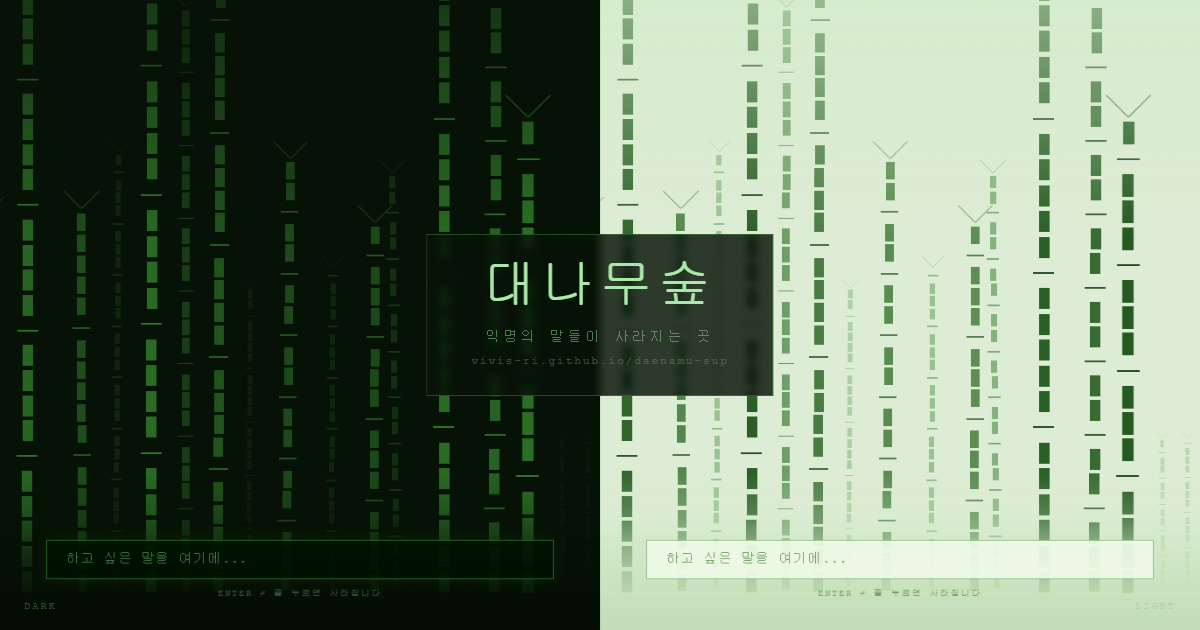
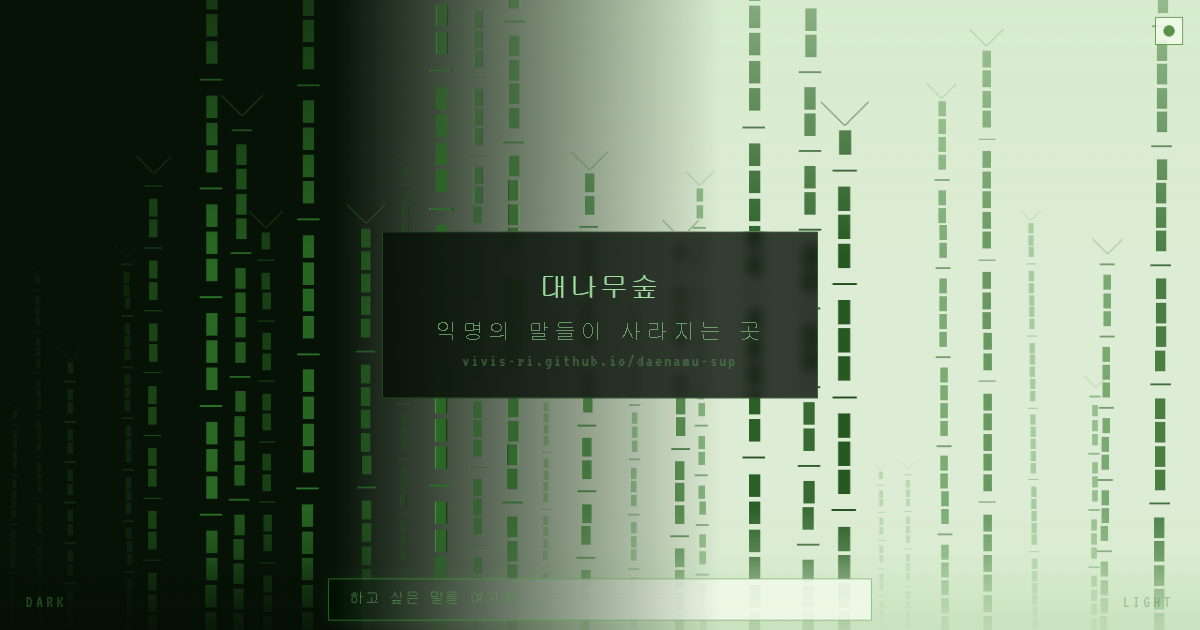
Add Web Audio wind BGM + regenerate preview with pixel font gradient
- Sound button (♩/♪) triggers procedural wind synthesis via Web Audio API:
  layered filtered noise, LFO swell, bamboo clack bursts
- Regenerated preview.png with Press Start 2P title and gradient blend
- Add make-preview.mjs for future preview regeneration

diff --git a/index.html b/index.html
@@ -173,6 +173,28 @@
 
     #theme-btn:hover { border-color: var(--inp-focus); }
 
+    /* ── 사운드 토글 버튼 ── */
+    #sound-btn {
+      position: fixed;
+      top: 18px;
+      right: 56px;
+      z-index: 20;
+      width: 30px;
+      height: 30px;
+      background: var(--inp-bg);
+      border: 1px solid var(--inp-border);
+      color: var(--btn-color);
+      font-size: 14px;
+      cursor: pointer;
+      border-radius: 1px;
+      font-family: monospace;
+      display: flex;
+      align-items: center;
+      justify-content: center;
+      transition: border-color 0.25s, background 0.4s;
+    }
+    #sound-btn:hover { border-color: var(--inp-focus); }
+
     @keyframes fly-up {
       0%   { transform: translate(0, 0) rotate(0deg) scale(1); opacity: 1; }
       12%  { opacity: 1; }
@@ -222,6 +244,7 @@
   <canvas id="forest-canvas"></canvas>
   <div id="mist"></div>
   <div id="particles"></div>
+  <button id="sound-btn" title="배경음 켜기/끄기">♩</button>
   <button id="theme-btn" title="라이트/다크 모드">○</button>
   <div id="input-bar">
     <input
@@ -436,6 +459,116 @@
       isDark = !isDark;
       document.body.classList.toggle('light', !isDark);
       themeBtn.textContent = isDark ? '○' : '●';
+    });
+
+    // ── 배경음 (Web Audio API — 대나무숲 바람) ─────────────────────
+
+    const soundBtn = document.getElementById('sound-btn');
+    let audioCtx   = null;
+    let masterGain = null;
+    let isSoundOn  = false;
+
+    function buildWindGraph() {
+      if (audioCtx) return;
+      audioCtx = new (window.AudioContext || window.webkitAudioContext)();
+
+      // ① 화이트 노이즈 버퍼 (3초, 루프)
+      const sr  = audioCtx.sampleRate;
+      const buf = audioCtx.createBuffer(1, sr * 3, sr);
+      const d   = buf.getChannelData(0);
+      for (let i = 0; i < d.length; i++) d[i] = Math.random() * 2 - 1;
+
+      const noise = audioCtx.createBufferSource();
+      noise.buffer = buf;
+      noise.loop   = true;
+
+      // ② 바람 레이어: 저역통과 + 고역통과로 부드러운 소음
+      const lp = audioCtx.createBiquadFilter();
+      lp.type = 'lowpass'; lp.frequency.value = 700; lp.Q.value = 0.6;
+
+      const hp = audioCtx.createBiquadFilter();
+      hp.type = 'highpass'; hp.frequency.value = 90;
+
+      // ③ LFO — 바람 세기 맥동 (매우 느림)
+      const lfo     = audioCtx.createOscillator();
+      lfo.type      = 'sine';
+      lfo.frequency.value = 0.07;
+
+      const lfoAmp  = audioCtx.createGain();
+      lfoAmp.gain.value = 180;          // 주파수를 ±180Hz 흔들기
+      lfo.connect(lfoAmp);
+      lfoAmp.connect(lp.frequency);
+
+      // ④ 스윕 LFO — 파도처럼 밀려오는 바람 볼륨
+      const swellLfo  = audioCtx.createOscillator();
+      swellLfo.type   = 'sine';
+      swellLfo.frequency.value = 0.04;
+
+      const swellBias = audioCtx.createGain();   // DC 오프셋 1.0
+      swellBias.gain.value = 1.0;
+
+      const swellDepth = audioCtx.createGain();
+      swellDepth.gain.value = 0.42;
+
+      const windLayer = audioCtx.createGain();
+      windLayer.gain.value = 1.0;
+
+      swellLfo.connect(swellDepth);
+      swellDepth.connect(windLayer.gain);
+
+      // ⑤ 사각거림 레이어: 중역대 노이즈 (잎/대나무 스침)
+      const rustleGain = audioCtx.createGain();
+      rustleGain.gain.value = 0.28;
+
+      const bp = audioCtx.createBiquadFilter();
+      bp.type = 'bandpass'; bp.frequency.value = 1800; bp.Q.value = 2.0;
+
+      // ⑥ 대나무 클락 (낮은 노치 버스트) — 주기적 발생
+      function scheduleClack(when) {
+        if (!audioCtx || !isSoundOn) return;
+        const b2 = audioCtx.createBuffer(1, Math.floor(sr * 0.05), sr);
+        const d2 = b2.getChannelData(0);
+        for (let i = 0; i < d2.length; i++) d2[i] = (Math.random() * 2 - 1) * Math.exp(-i / (sr * 0.006));
+        const clk = audioCtx.createBufferSource();
+        clk.buffer = b2;
+        const clkBp = audioCtx.createBiquadFilter();
+        clkBp.type = 'bandpass'; clkBp.frequency.value = 900 + Math.random() * 600; clkBp.Q.value = 8;
+        const clkGain = audioCtx.createGain();
+        clkGain.gain.value = 0.18 + Math.random() * 0.12;
+        clk.connect(clkBp); clkBp.connect(clkGain); clkGain.connect(masterGain);
+        clk.start(when);
+        const next = when + 2.5 + Math.random() * 5.5;
+        setTimeout(() => scheduleClack(audioCtx.currentTime + 2.5 + Math.random() * 5.5),
+          Math.max(0, (next - audioCtx.currentTime - 1) * 1000));
+      }
+
+      // ⑦ 마스터 게인 (음소거용)
+      masterGain = audioCtx.createGain();
+      masterGain.gain.value = 0;
+
+      // 연결
+      noise.connect(lp); lp.connect(hp); hp.connect(windLayer);
+      windLayer.connect(masterGain);
+
+      noise.connect(bp); bp.connect(rustleGain);
+      rustleGain.connect(masterGain);
+
+      masterGain.connect(audioCtx.destination);
+
+      noise.start();
+      lfo.start();
+      swellLfo.start();
+
+      setTimeout(() => scheduleClack(audioCtx.currentTime + 1), 100);
+    }
+
+    soundBtn.addEventListener('click', () => {
+      buildWindGraph();
+      if (audioCtx.state === 'suspended') audioCtx.resume();
+      isSoundOn = !isSoundOn;
+      const target = isSoundOn ? 0.22 : 0;
+      masterGain.gain.setTargetAtTime(target, audioCtx.currentTime, 1.2);
+      soundBtn.textContent = isSoundOn ? '♪' : '♩';
     });
 
     // ── 초기화 ──────────────────────────────────────────────────────
